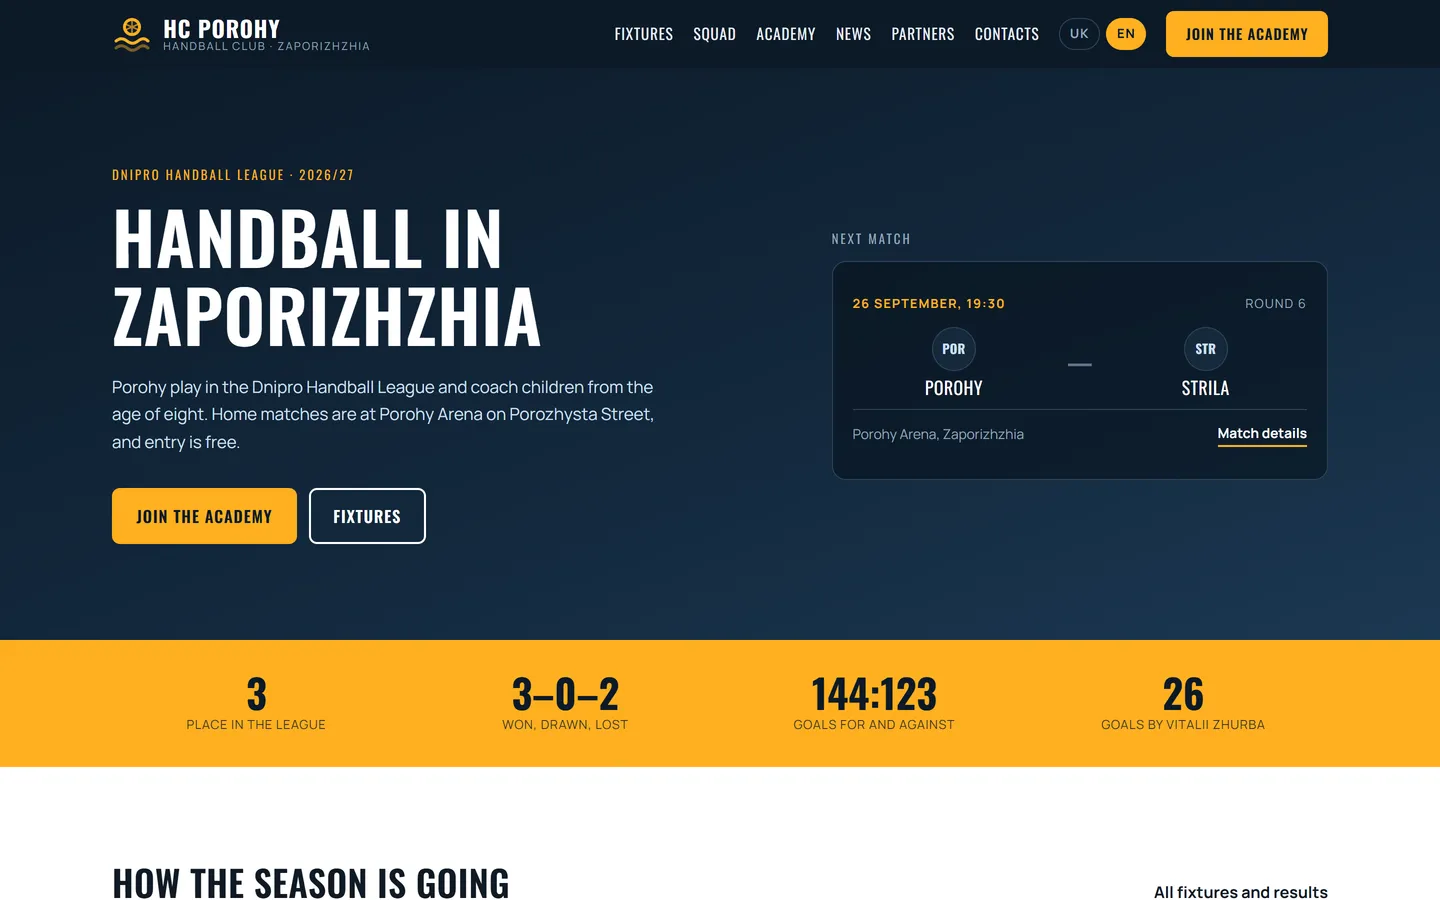
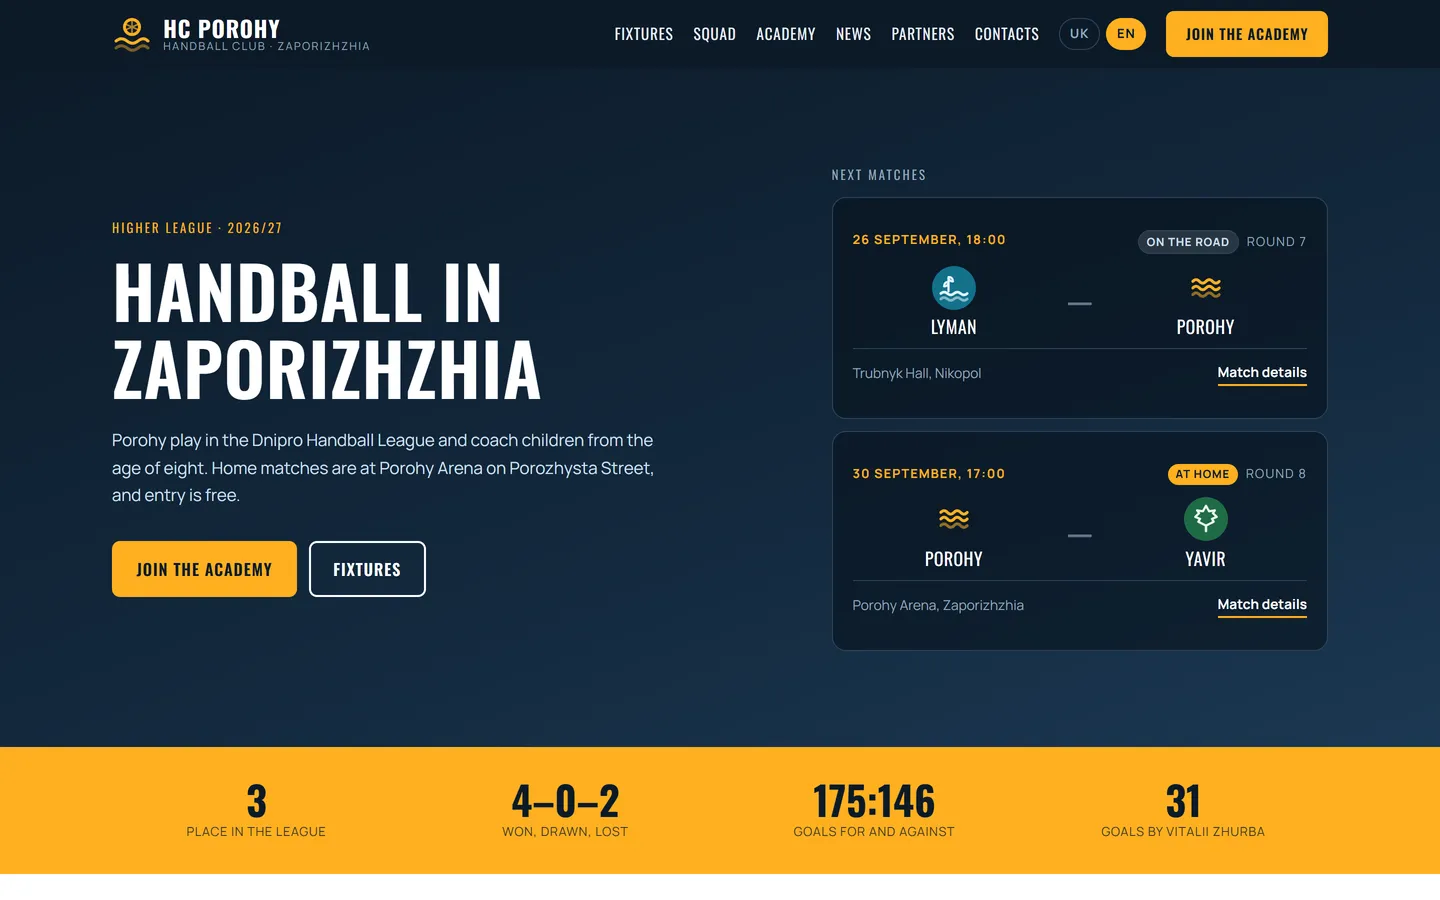
Пороги: свіжі знімки, оновлений кейс

diff --git a/work/porohy/index.html b/work/porohy/index.html
@@ -46,9 +46,11 @@ shows last season&#39;s table answers that question badly.</p>
 <p><strong>A table nobody fills in.</strong> The coach opens a match, types 31 and 20, and saves. The league table,
 the goal difference, the top scorer list, the player pages and the &quot;next match&quot; block on the home
 page all change by themselves. There is no second place where the same number could be wrong.</p>
-<p><strong>A squad page that stays honest.</strong> Goals and appearances come from the match reports, so the
-numbers on a player&#39;s card always agree with the results page. Add up every player&#39;s goals and you
-get exactly what the table says the team scored.</p>
+<p><strong>A squad page that stays honest.</strong> The list answers one question — who plays — so it carries names
+and positions, and the numbers wait inside a player&#39;s card. Goals and appearances come from the match
+reports: add up every player&#39;s goals and you get exactly what the table says the team scored.
+Injured players and academy call-ups are marked, because a squad with three keepers and no
+explanation raises questions.</p>
 <p><strong>The academy page as the main page.</strong> Age groups, times, prices, what to bring to a first session,
 and the questions parents actually ask. The sign-up form goes to the coach by email and is also
 stored in the admin panel — email fails more often than people think, and a lost enquiry is a lost
@@ -60,8 +62,9 @@ not translated, so one record serves both languages.</p>
 and the squad stats sit at the top of the screen, before anything else.</p>
 <h2>Result</h2>
 <p>A WordPress site with a theme written for this club rather than bought and adjusted — no page
-builder, no bundled template. 79 pages across two languages, 56 fixtures, every text contrast checked
-against WCAG AA, no horizontal scrolling at any width from 360 px up.</p>
+builder, no bundled template. 85 pages across two languages, 56 fixtures, every club crest drawn for
+the site, every text contrast checked against WCAG AA, no horizontal scrolling at any width from
+360 px up.</p>
 <p>The club is invented for this portfolio piece, and every page says so.</p>
 </div>
     <div class="gallery">

diff --git a/content/cases.js b/content/cases.js
@@ -15,9 +15,11 @@ And nobody at a club wants to maintain a website. The coach has training to run.
 the goal difference, the top scorer list, the player pages and the "next match" block on the home
 page all change by themselves. There is no second place where the same number could be wrong.
 
-**A squad page that stays honest.** Goals and appearances come from the match reports, so the
-numbers on a player's card always agree with the results page. Add up every player's goals and you
-get exactly what the table says the team scored.
+**A squad page that stays honest.** The list answers one question — who plays — so it carries names
+and positions, and the numbers wait inside a player's card. Goals and appearances come from the match
+reports: add up every player's goals and you get exactly what the table says the team scored.
+Injured players and academy call-ups are marked, because a squad with three keepers and no
+explanation raises questions.
 
 **The academy page as the main page.** Age groups, times, prices, what to bring to a first session,
 and the questions parents actually ask. The sign-up form goes to the coach by email and is also
@@ -34,8 +36,9 @@ and the squad stats sit at the top of the screen, before anything else.
 ## Result
 
 A WordPress site with a theme written for this club rather than bought and adjusted — no page
-builder, no bundled template. 79 pages across two languages, 56 fixtures, every text contrast checked
-against WCAG AA, no horizontal scrolling at any width from 360 px up.
+builder, no bundled template. 85 pages across two languages, 56 fixtures, every club crest drawn for
+the site, every text contrast checked against WCAG AA, no horizontal scrolling at any width from
+360 px up.
 
 The club is invented for this portfolio piece, and every page says so.`,
 
